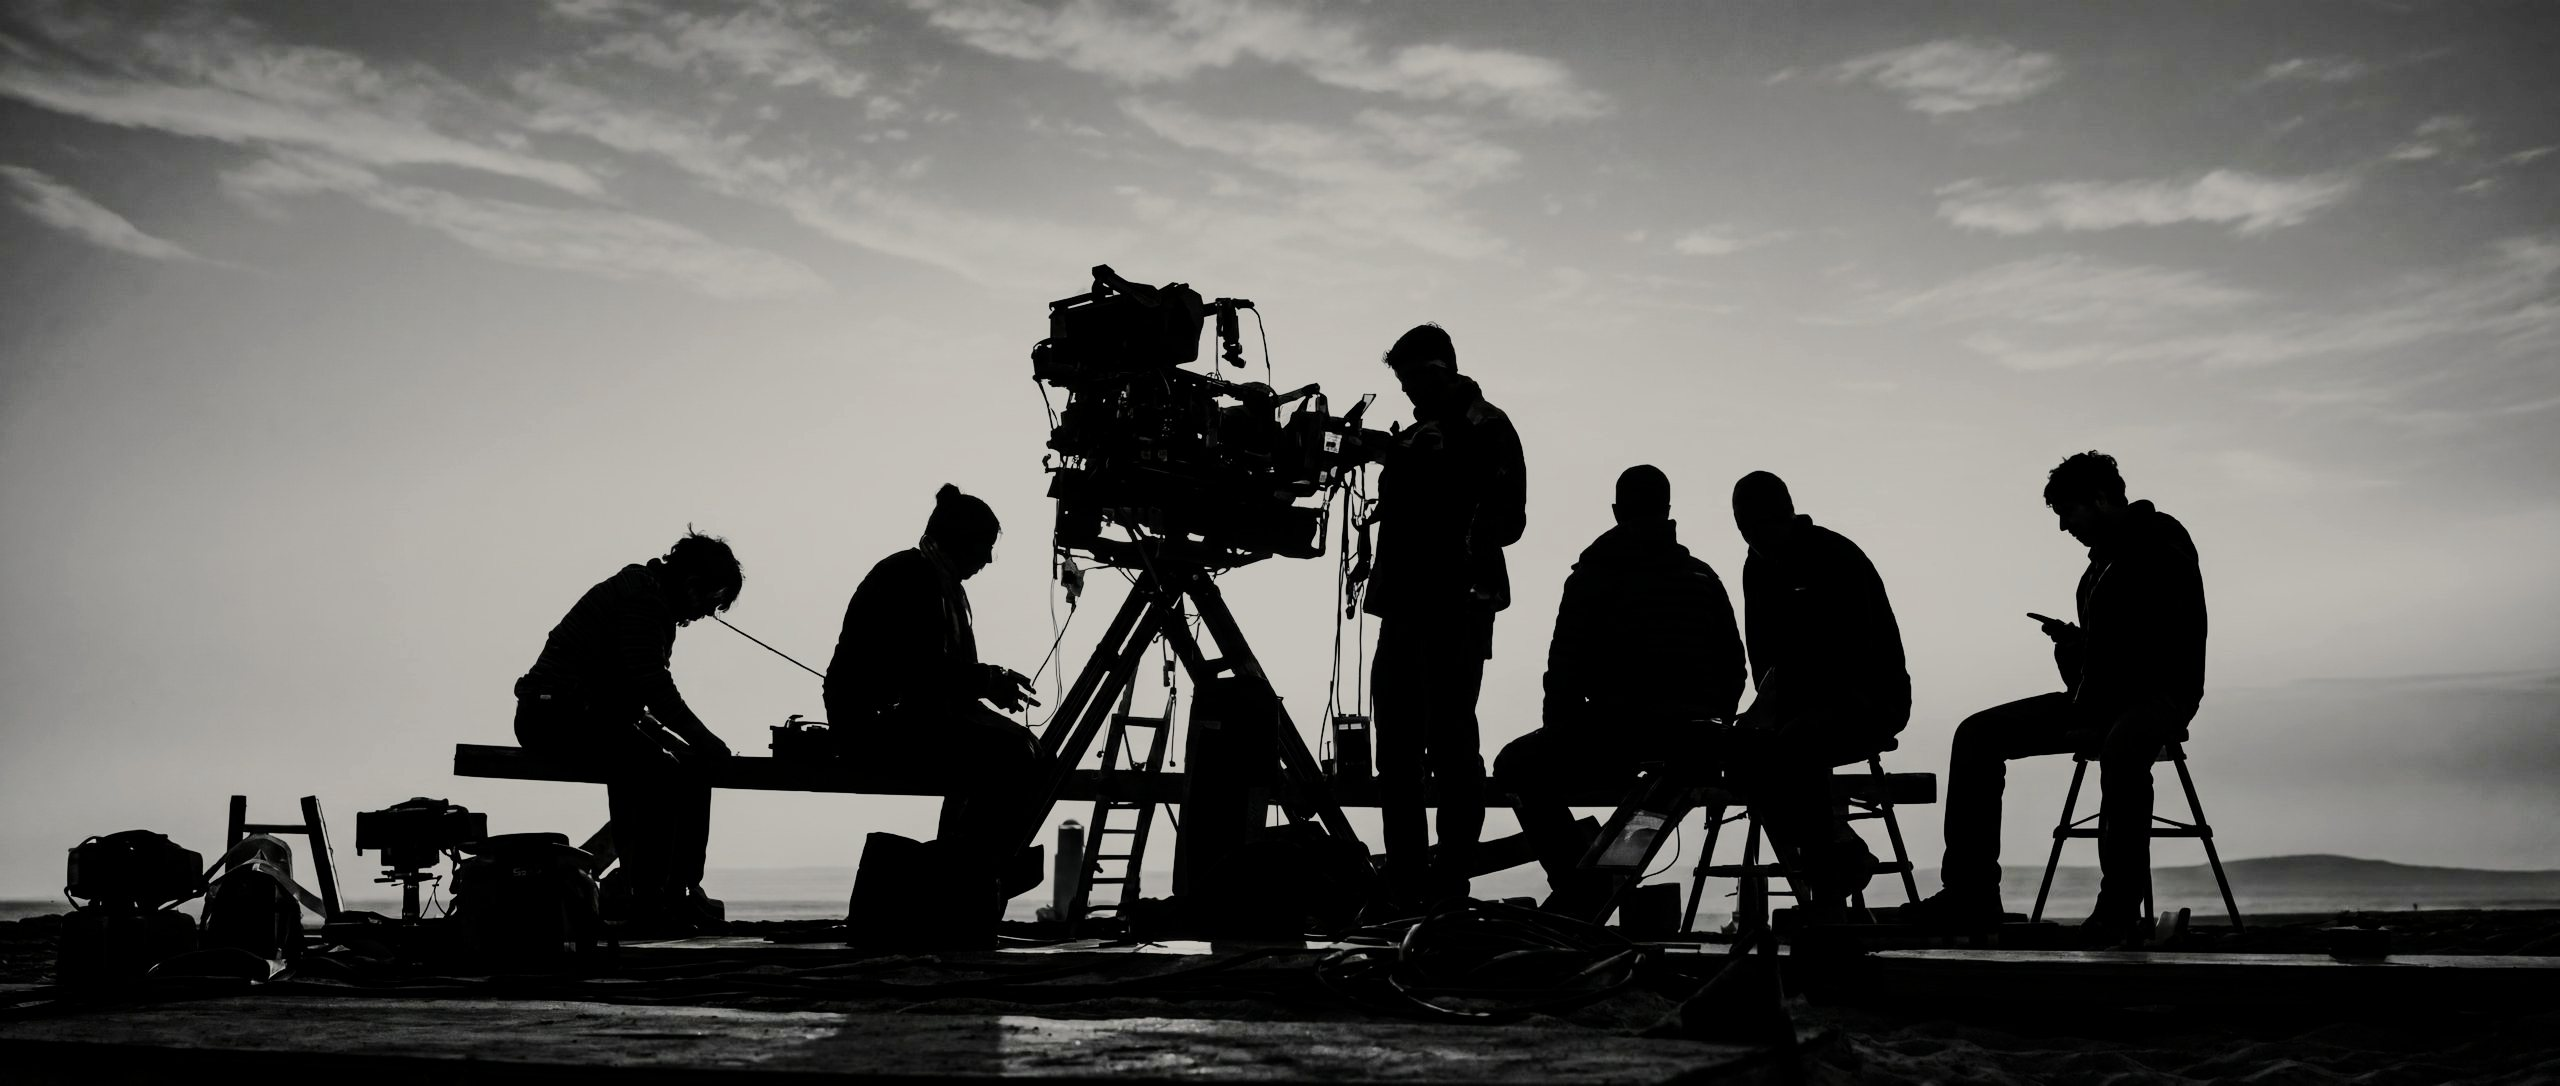
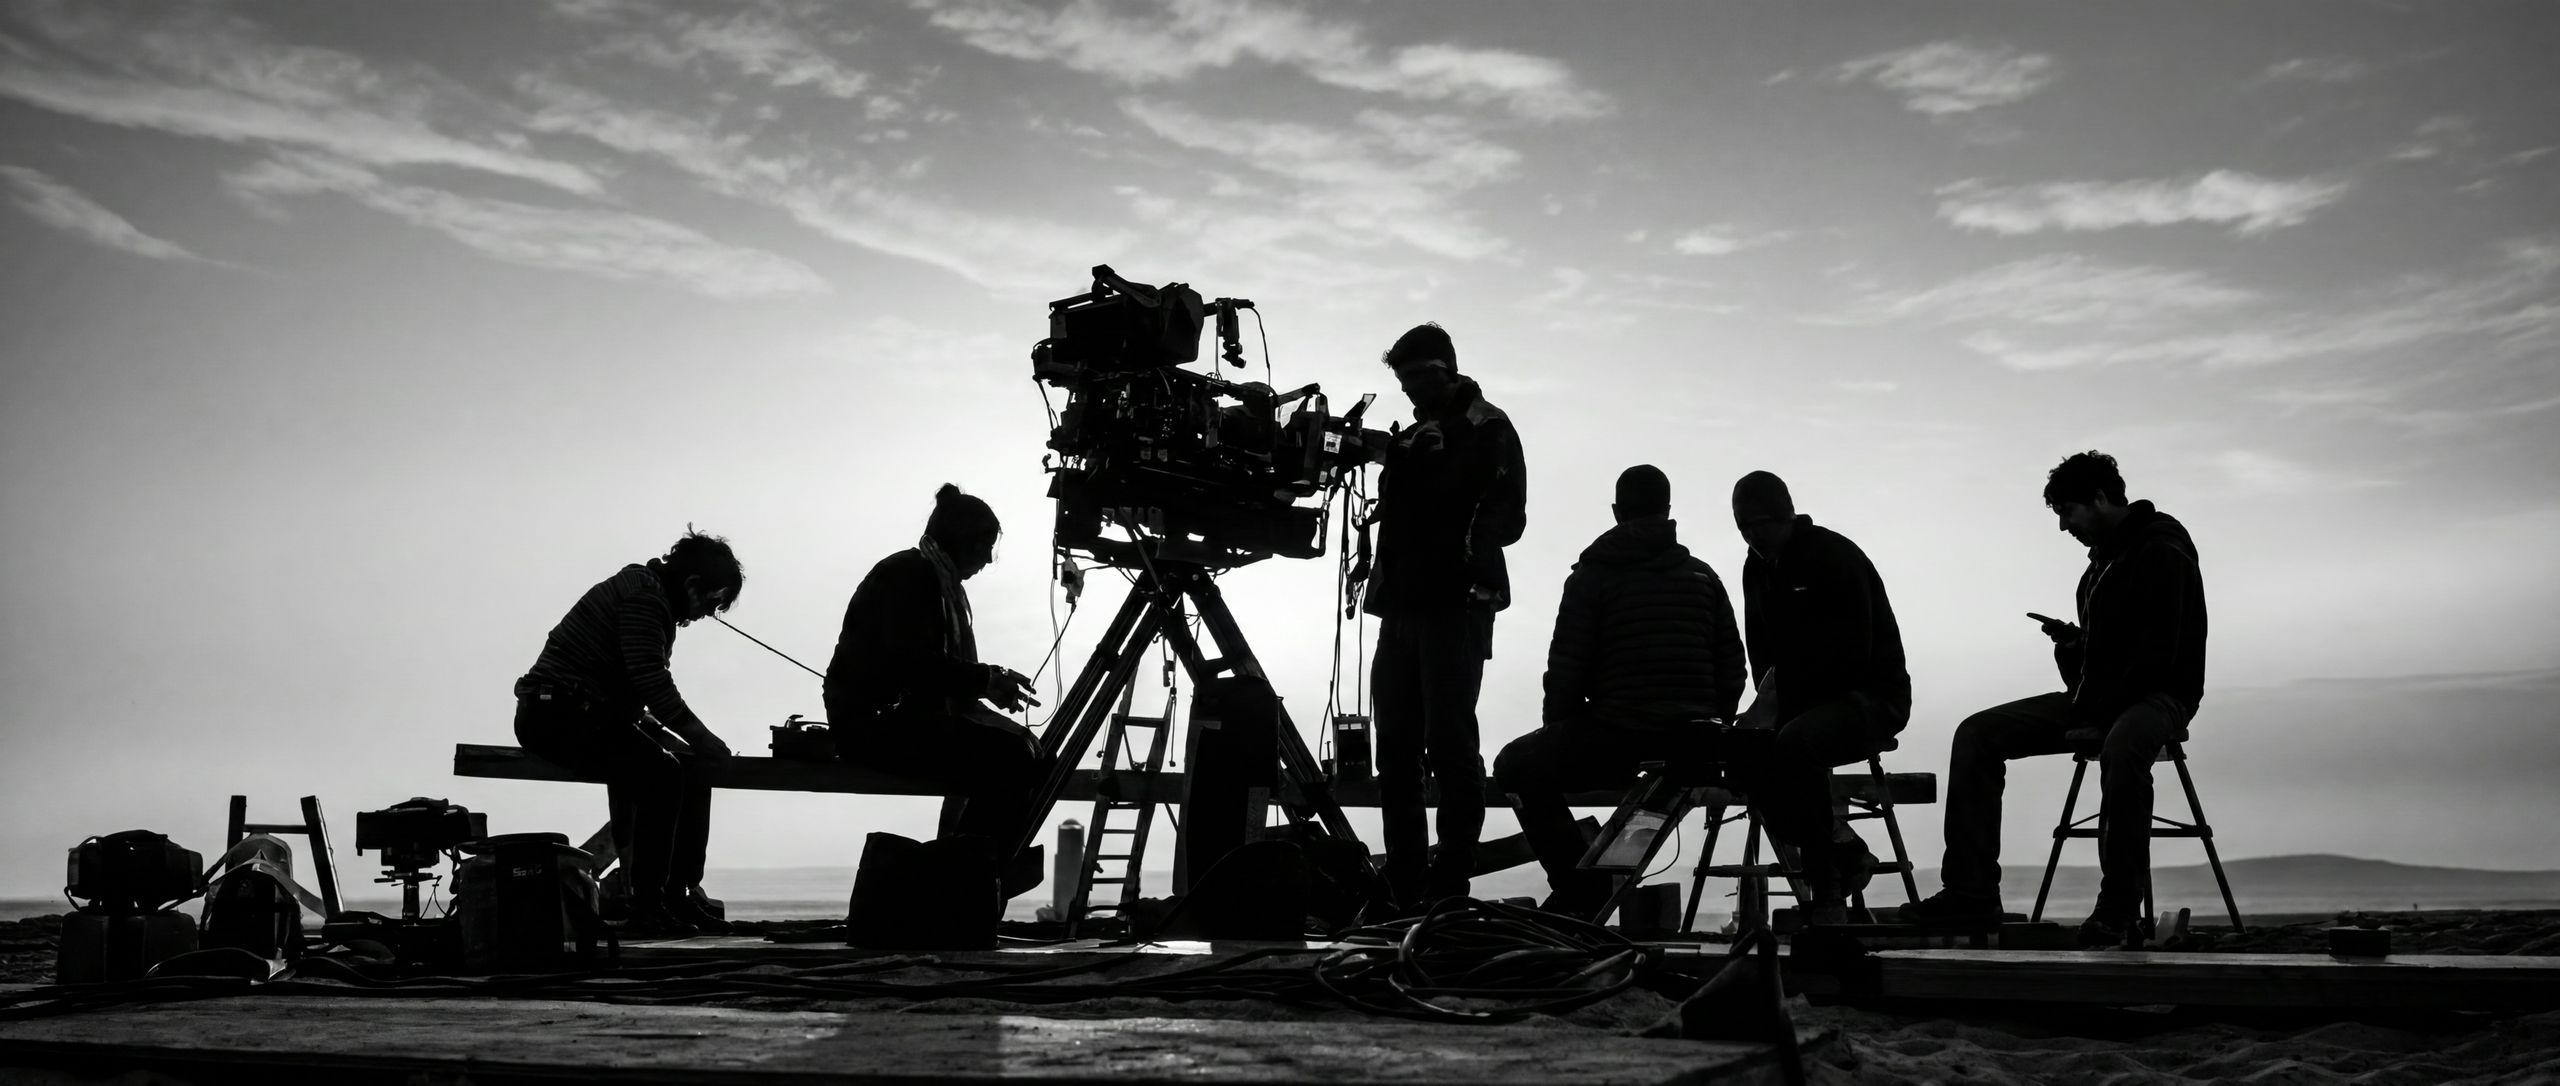
Update Field Law voting section: increase padding and change amount to 5,000
- Section padding increased from default to 4rem (mobile) / 5rem (desktop)
- Increased internal element spacing (gap, padding, margins)
- Larger typography for heading and body text
- Updated amount from ,000 to 5,000 in section and funding strip

diff --git a/css/styles.css b/css/styles.css
@@ -1494,15 +1494,21 @@ textarea:focus-visible {
 .fieldlaw-vote-section {
   background: linear-gradient(135deg, var(--color-charcoal-deep) 0%, #2a3535 100%);
   color: var(--color-paper);
+  padding: 4rem 0;
+}
+
+.fieldlaw-vote-section .shell {
+  padding-block: 2rem;
 }
 
 .fieldlaw-vote-section h2 {
   color: var(--color-paper);
+  font-size: clamp(2rem, 5vw, 3rem);
 }
 
 .fieldlaw-vote-grid {
   display: grid;
-  gap: 2.5rem;
+  gap: 3.5rem;
 }
 
 .fieldlaw-vote-content {
@@ -1511,22 +1517,27 @@ textarea:focus-visible {
 
 .fieldlaw-vote-content p {
   color: var(--color-hero-lede);
-  font-size: 1.05rem;
-  margin-top: 1rem;
-  margin-bottom: 1.5rem;
+  font-size: 1.15rem;
+  margin-top: 1.25rem;
+  margin-bottom: 2rem;
+  line-height: 1.6;
+}
+
+.fieldlaw-vote-content .button-row {
+  gap: 1.5rem;
 }
 
 .fieldlaw-vote-details {
   background: rgba(255, 255, 255, 0.06);
   border: 1px solid rgba(255, 255, 255, 0.12);
   border-radius: var(--radius);
-  padding: 1.75rem;
+  padding: 2.25rem;
 }
 
 .fieldlaw-vote-details h3 {
   color: var(--color-gold);
-  font-size: 1.1rem;
-  margin-bottom: 1rem;
+  font-size: 1.15rem;
+  margin-bottom: 1.25rem;
 }
 
 .vote-benefits {
@@ -1534,27 +1545,29 @@ textarea:focus-visible {
   padding: 0;
   margin: 0;
   display: grid;
-  gap: 0.75rem;
+  gap: 1rem;
 }
 
 .vote-benefits li {
   display: flex;
   align-items: flex-start;
-  gap: 0.75rem;
-  font-size: 0.95rem;
+  gap: 0.875rem;
+  font-size: 1rem;
+  line-height: 1.5;
 }
 
 .vote-benefits .check {
   color: var(--color-gold);
   font-weight: bold;
   flex-shrink: 0;
+  font-size: 1.1rem;
 }
 
 .vote-deadline {
-  margin-top: 1.5rem;
-  padding-top: 1rem;
+  margin-top: 2rem;
+  padding-top: 1.25rem;
   border-top: 1px solid rgba(255, 255, 255, 0.12);
-  font-size: 0.9rem;
+  font-size: 0.95rem;
 }
 
 .vote-deadline strong {
@@ -1564,8 +1577,12 @@ textarea:focus-visible {
 @media (min-width: 760px) {
   .fieldlaw-vote-grid {
     grid-template-columns: 1.5fr 1fr;
-    gap: 3rem;
+    gap: 4rem;
     align-items: start;
+  }
+  
+  .fieldlaw-vote-section {
+    padding: 5rem 0;
   }
 }
 

diff --git a/index.html b/index.html
@@ -54,7 +54,7 @@ src="https://www.facebook.com/tr?id=2137911013458736&ev=PageView&noscript=1"
 
 <div class="funding-strip">
   <div class="shell funding-strip-inner">
-    <span>Help us win · Field Law Community Fund</span>
+    <span>Help us win $15,000 · Field Law Community Fund</span>
     <a href="https://www.fieldlaw.com/idea/emotional-wellbeing-tools-for-calgary-creative-community" target="_blank" rel="noreferrer">Field Law: Vote For Us!
       <svg xmlns="http://www.w3.org/2000/svg" width="14" height="14" viewBox="0 0 24 24" fill="none" stroke="currentColor" stroke-width="2" stroke-linecap="round" stroke-linejoin="round" aria-hidden="true"><path d="M7 7h10v10"></path><path d="M7 17 17 7"></path></svg>
     </a>
@@ -131,7 +131,7 @@ src="https://www.facebook.com/tr?id=2137911013458736&ev=PageView&noscript=1"
     <div class="shell fieldlaw-vote-grid">
       <div class="fieldlaw-vote-content">
         <p class="eyebrow gold">Community Fund Voting</p>
-        <h2>Help us win $5,000 for Alberta creators.</h2>
+        <h2>Help us win $15,000 for Alberta creators.</h2>
         <p>We've been selected as a finalist for the Field Law Community Fund. With your vote, we can expand our mental health programming and resource navigation for Calgary's creative community.</p>
         <div class="button-row">
           <a class="button button-gold" href="https://www.fieldlaw.com/idea/emotional-wellbeing-tools-for-calgary-creative-community" target="_blank" rel="noreferrer">Vote for Homegrown

diff --git a/annual-general-meeting.html b/annual-general-meeting.html
@@ -54,7 +54,7 @@ src="https://www.facebook.com/tr?id=2137911013458736&ev=PageView&noscript=1"
 
 <div class="funding-strip">
   <div class="shell funding-strip-inner">
-    <span>Help us win · Field Law Community Fund</span>
+    <span>Help us win $15,000 · Field Law Community Fund</span>
     <a href="https://www.fieldlaw.com/idea/emotional-wellbeing-tools-for-calgary-creative-community" target="_blank" rel="noreferrer">Field Law: Vote For Us!
       <svg xmlns="http://www.w3.org/2000/svg" width="14" height="14" viewBox="0 0 24 24" fill="none" stroke="currentColor" stroke-width="2" stroke-linecap="round" stroke-linejoin="round" aria-hidden="true"><path d="M7 7h10v10"></path><path d="M7 17 17 7"></path></svg>
     </a>

diff --git a/board.html b/board.html
@@ -54,7 +54,7 @@ src="https://www.facebook.com/tr?id=2137911013458736&ev=PageView&noscript=1"
 
 <div class="funding-strip">
   <div class="shell funding-strip-inner">
-    <span>Help us win · Field Law Community Fund</span>
+    <span>Help us win $15,000 · Field Law Community Fund</span>
     <a href="https://www.fieldlaw.com/idea/emotional-wellbeing-tools-for-calgary-creative-community" target="_blank" rel="noreferrer">Field Law: Vote For Us!
       <svg xmlns="http://www.w3.org/2000/svg" width="14" height="14" viewBox="0 0 24 24" fill="none" stroke="currentColor" stroke-width="2" stroke-linecap="round" stroke-linejoin="round" aria-hidden="true"><path d="M7 7h10v10"></path><path d="M7 17 17 7"></path></svg>
     </a>

diff --git a/forum.html b/forum.html
@@ -54,7 +54,7 @@ src="https://www.facebook.com/tr?id=2137911013458736&ev=PageView&noscript=1"
 
 <div class="funding-strip">
   <div class="shell funding-strip-inner">
-    <span>Help us win · Field Law Community Fund</span>
+    <span>Help us win $15,000 · Field Law Community Fund</span>
     <a href="https://www.fieldlaw.com/idea/emotional-wellbeing-tools-for-calgary-creative-community" target="_blank" rel="noreferrer">Field Law: Vote For Us!
       <svg xmlns="http://www.w3.org/2000/svg" width="14" height="14" viewBox="0 0 24 24" fill="none" stroke="currentColor" stroke-width="2" stroke-linecap="round" stroke-linejoin="round" aria-hidden="true"><path d="M7 7h10v10"></path><path d="M7 17 17 7"></path></svg>
     </a>

diff --git a/login.html b/login.html
@@ -54,7 +54,7 @@ src="https://www.facebook.com/tr?id=2137911013458736&ev=PageView&noscript=1"
 
 <div class="funding-strip">
   <div class="shell funding-strip-inner">
-    <span>Help us win · Field Law Community Fund</span>
+    <span>Help us win $15,000 · Field Law Community Fund</span>
     <a href="https://www.fieldlaw.com/idea/emotional-wellbeing-tools-for-calgary-creative-community" target="_blank" rel="noreferrer">Field Law: Vote For Us!
       <svg xmlns="http://www.w3.org/2000/svg" width="14" height="14" viewBox="0 0 24 24" fill="none" stroke="currentColor" stroke-width="2" stroke-linecap="round" stroke-linejoin="round" aria-hidden="true"><path d="M7 7h10v10"></path><path d="M7 17 17 7"></path></svg>
     </a>

diff --git a/resources.html b/resources.html
@@ -54,7 +54,7 @@ src="https://www.facebook.com/tr?id=2137911013458736&ev=PageView&noscript=1"
 
 <div class="funding-strip">
   <div class="shell funding-strip-inner">
-    <span>Help us win · Field Law Community Fund</span>
+    <span>Help us win $15,000 · Field Law Community Fund</span>
     <a href="https://www.fieldlaw.com/idea/emotional-wellbeing-tools-for-calgary-creative-community" target="_blank" rel="noreferrer">Field Law: Vote For Us!
       <svg xmlns="http://www.w3.org/2000/svg" width="14" height="14" viewBox="0 0 24 24" fill="none" stroke="currentColor" stroke-width="2" stroke-linecap="round" stroke-linejoin="round" aria-hidden="true"><path d="M7 7h10v10"></path><path d="M7 17 17 7"></path></svg>
     </a>

diff --git a/sparks.html b/sparks.html
@@ -54,7 +54,7 @@ src="https://www.facebook.com/tr?id=2137911013458736&ev=PageView&noscript=1"
 
 <div class="funding-strip">
   <div class="shell funding-strip-inner">
-    <span>Help us win · Field Law Community Fund</span>
+    <span>Help us win $15,000 · Field Law Community Fund</span>
     <a href="https://www.fieldlaw.com/idea/emotional-wellbeing-tools-for-calgary-creative-community" target="_blank" rel="noreferrer">Field Law: Vote For Us!
       <svg xmlns="http://www.w3.org/2000/svg" width="14" height="14" viewBox="0 0 24 24" fill="none" stroke="currentColor" stroke-width="2" stroke-linecap="round" stroke-linejoin="round" aria-hidden="true"><path d="M7 7h10v10"></path><path d="M7 17 17 7"></path></svg>
     </a>

diff --git a/sponsor.html b/sponsor.html
@@ -54,7 +54,7 @@ src="https://www.facebook.com/tr?id=2137911013458736&ev=PageView&noscript=1"
 
 <div class="funding-strip">
   <div class="shell funding-strip-inner">
-    <span>Help us win · Field Law Community Fund</span>
+    <span>Help us win $15,000 · Field Law Community Fund</span>
     <a href="https://www.fieldlaw.com/idea/emotional-wellbeing-tools-for-calgary-creative-community" target="_blank" rel="noreferrer">Field Law: Vote For Us!
       <svg xmlns="http://www.w3.org/2000/svg" width="14" height="14" viewBox="0 0 24 24" fill="none" stroke="currentColor" stroke-width="2" stroke-linecap="round" stroke-linejoin="round" aria-hidden="true"><path d="M7 7h10v10"></path><path d="M7 17 17 7"></path></svg>
     </a>
